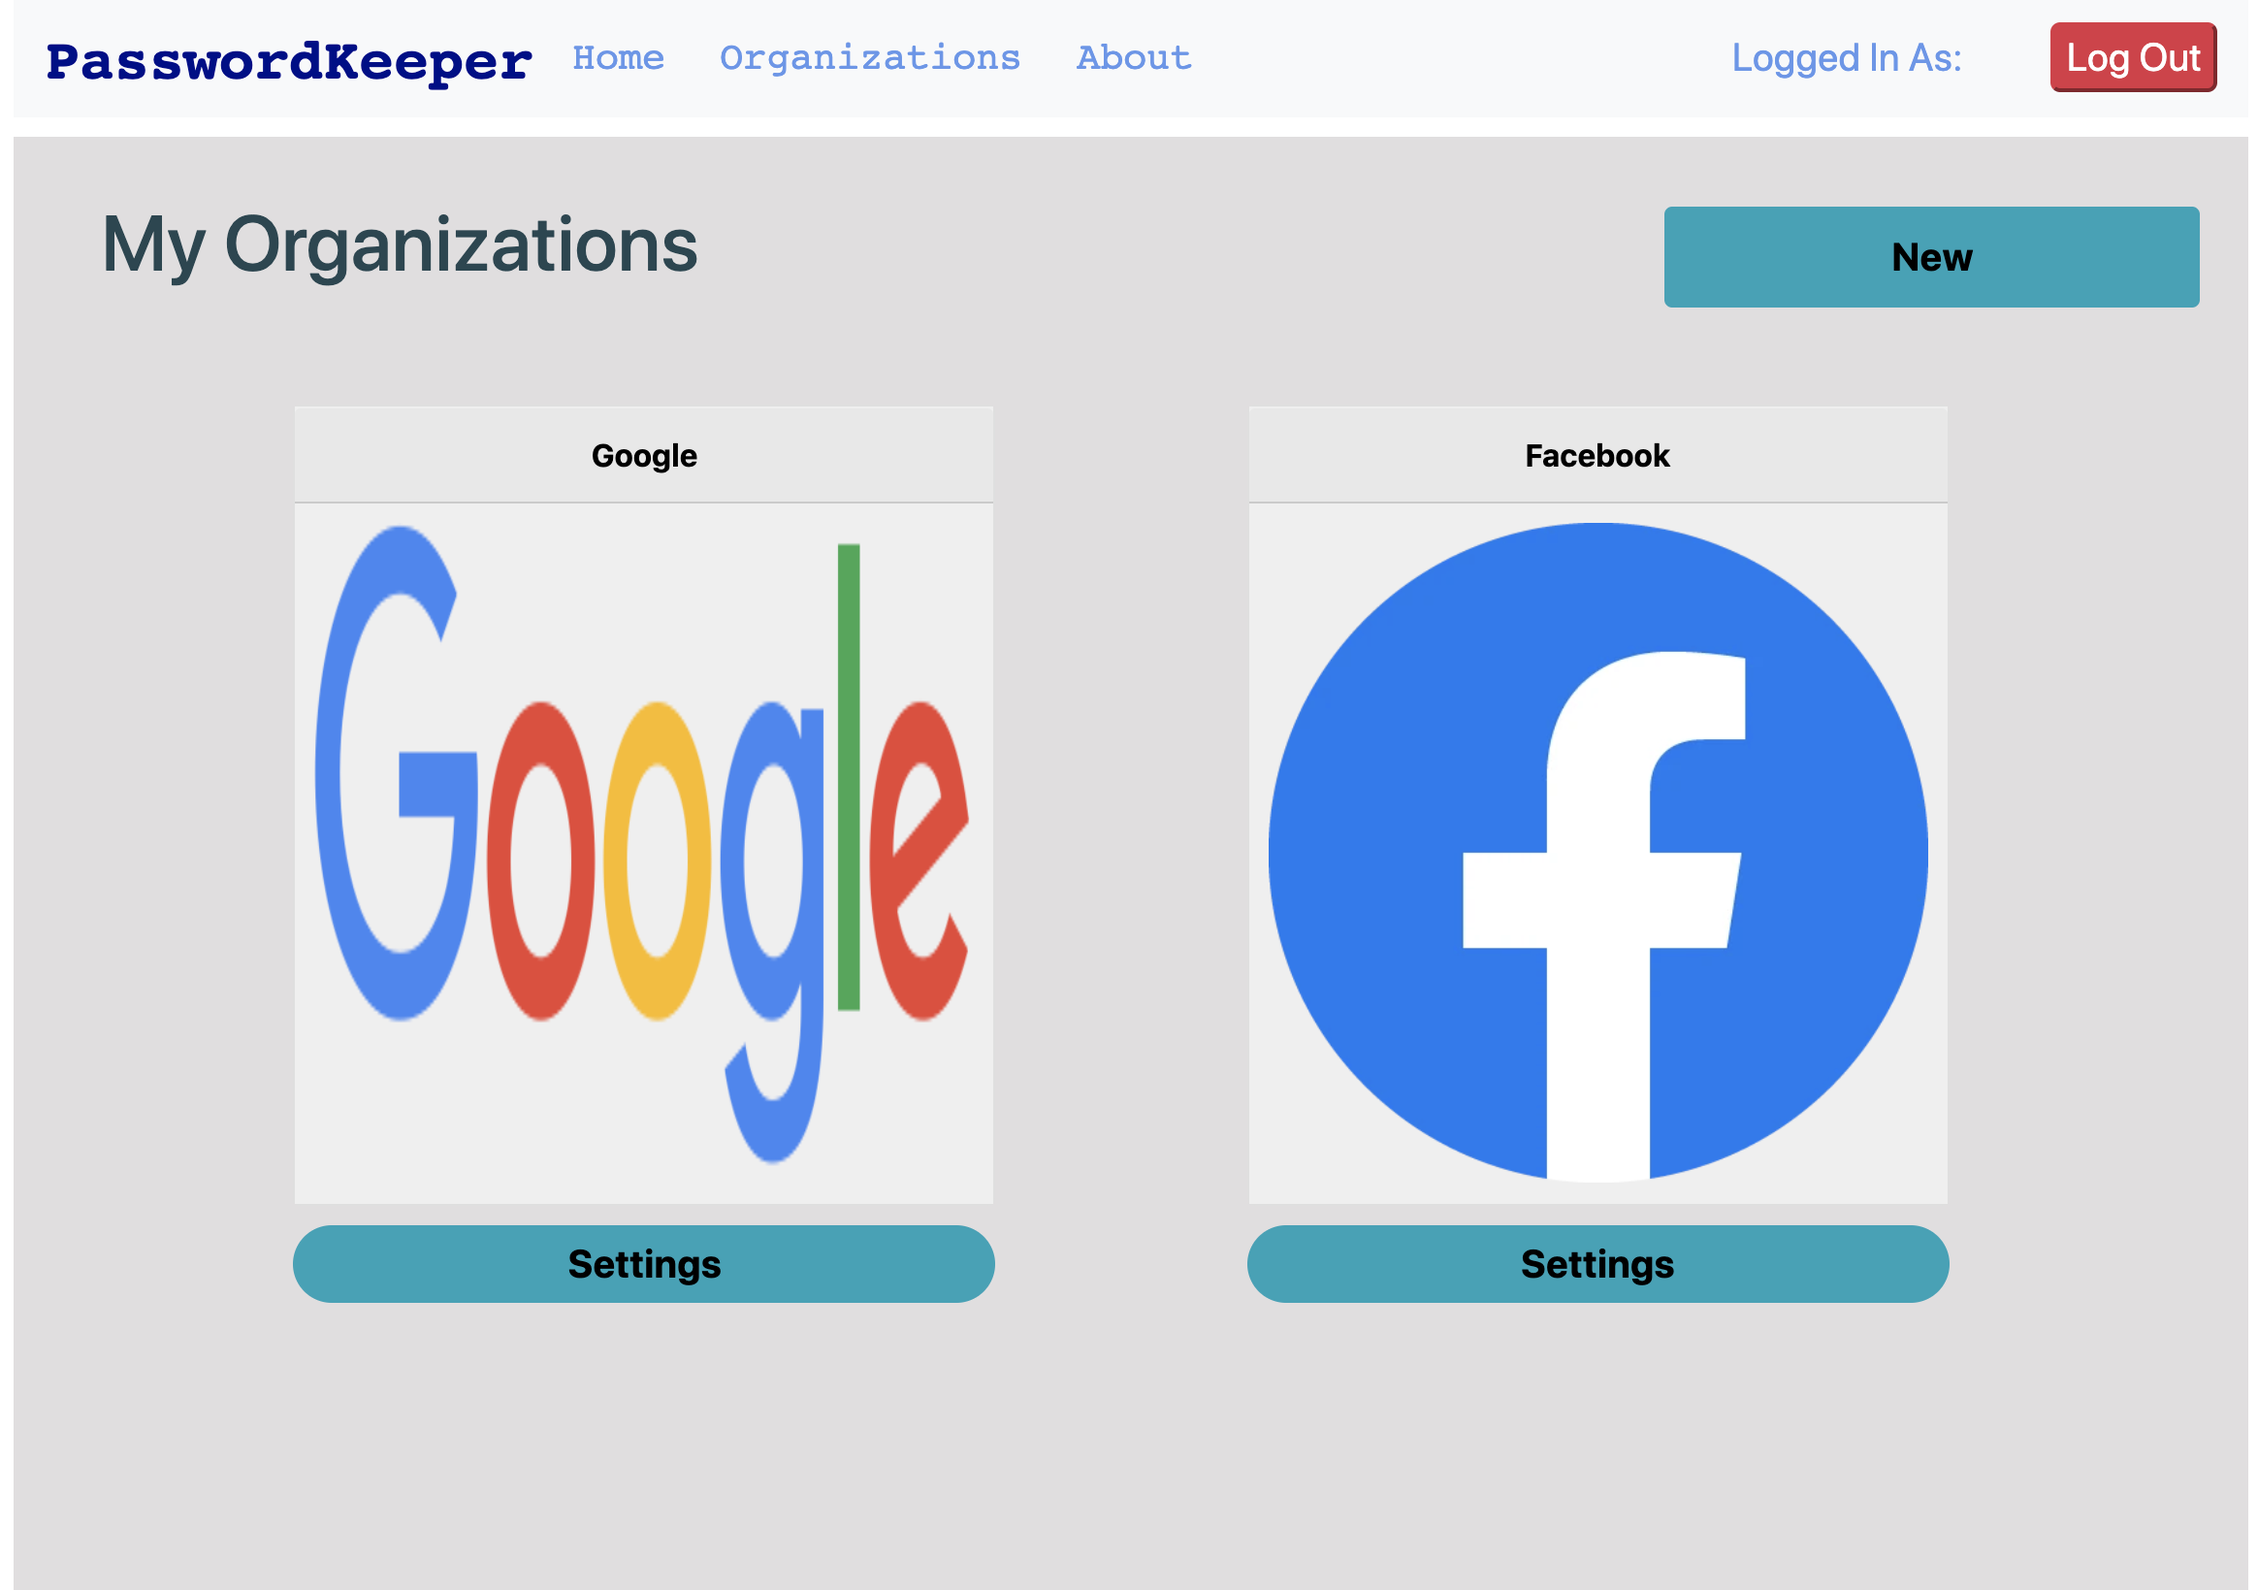
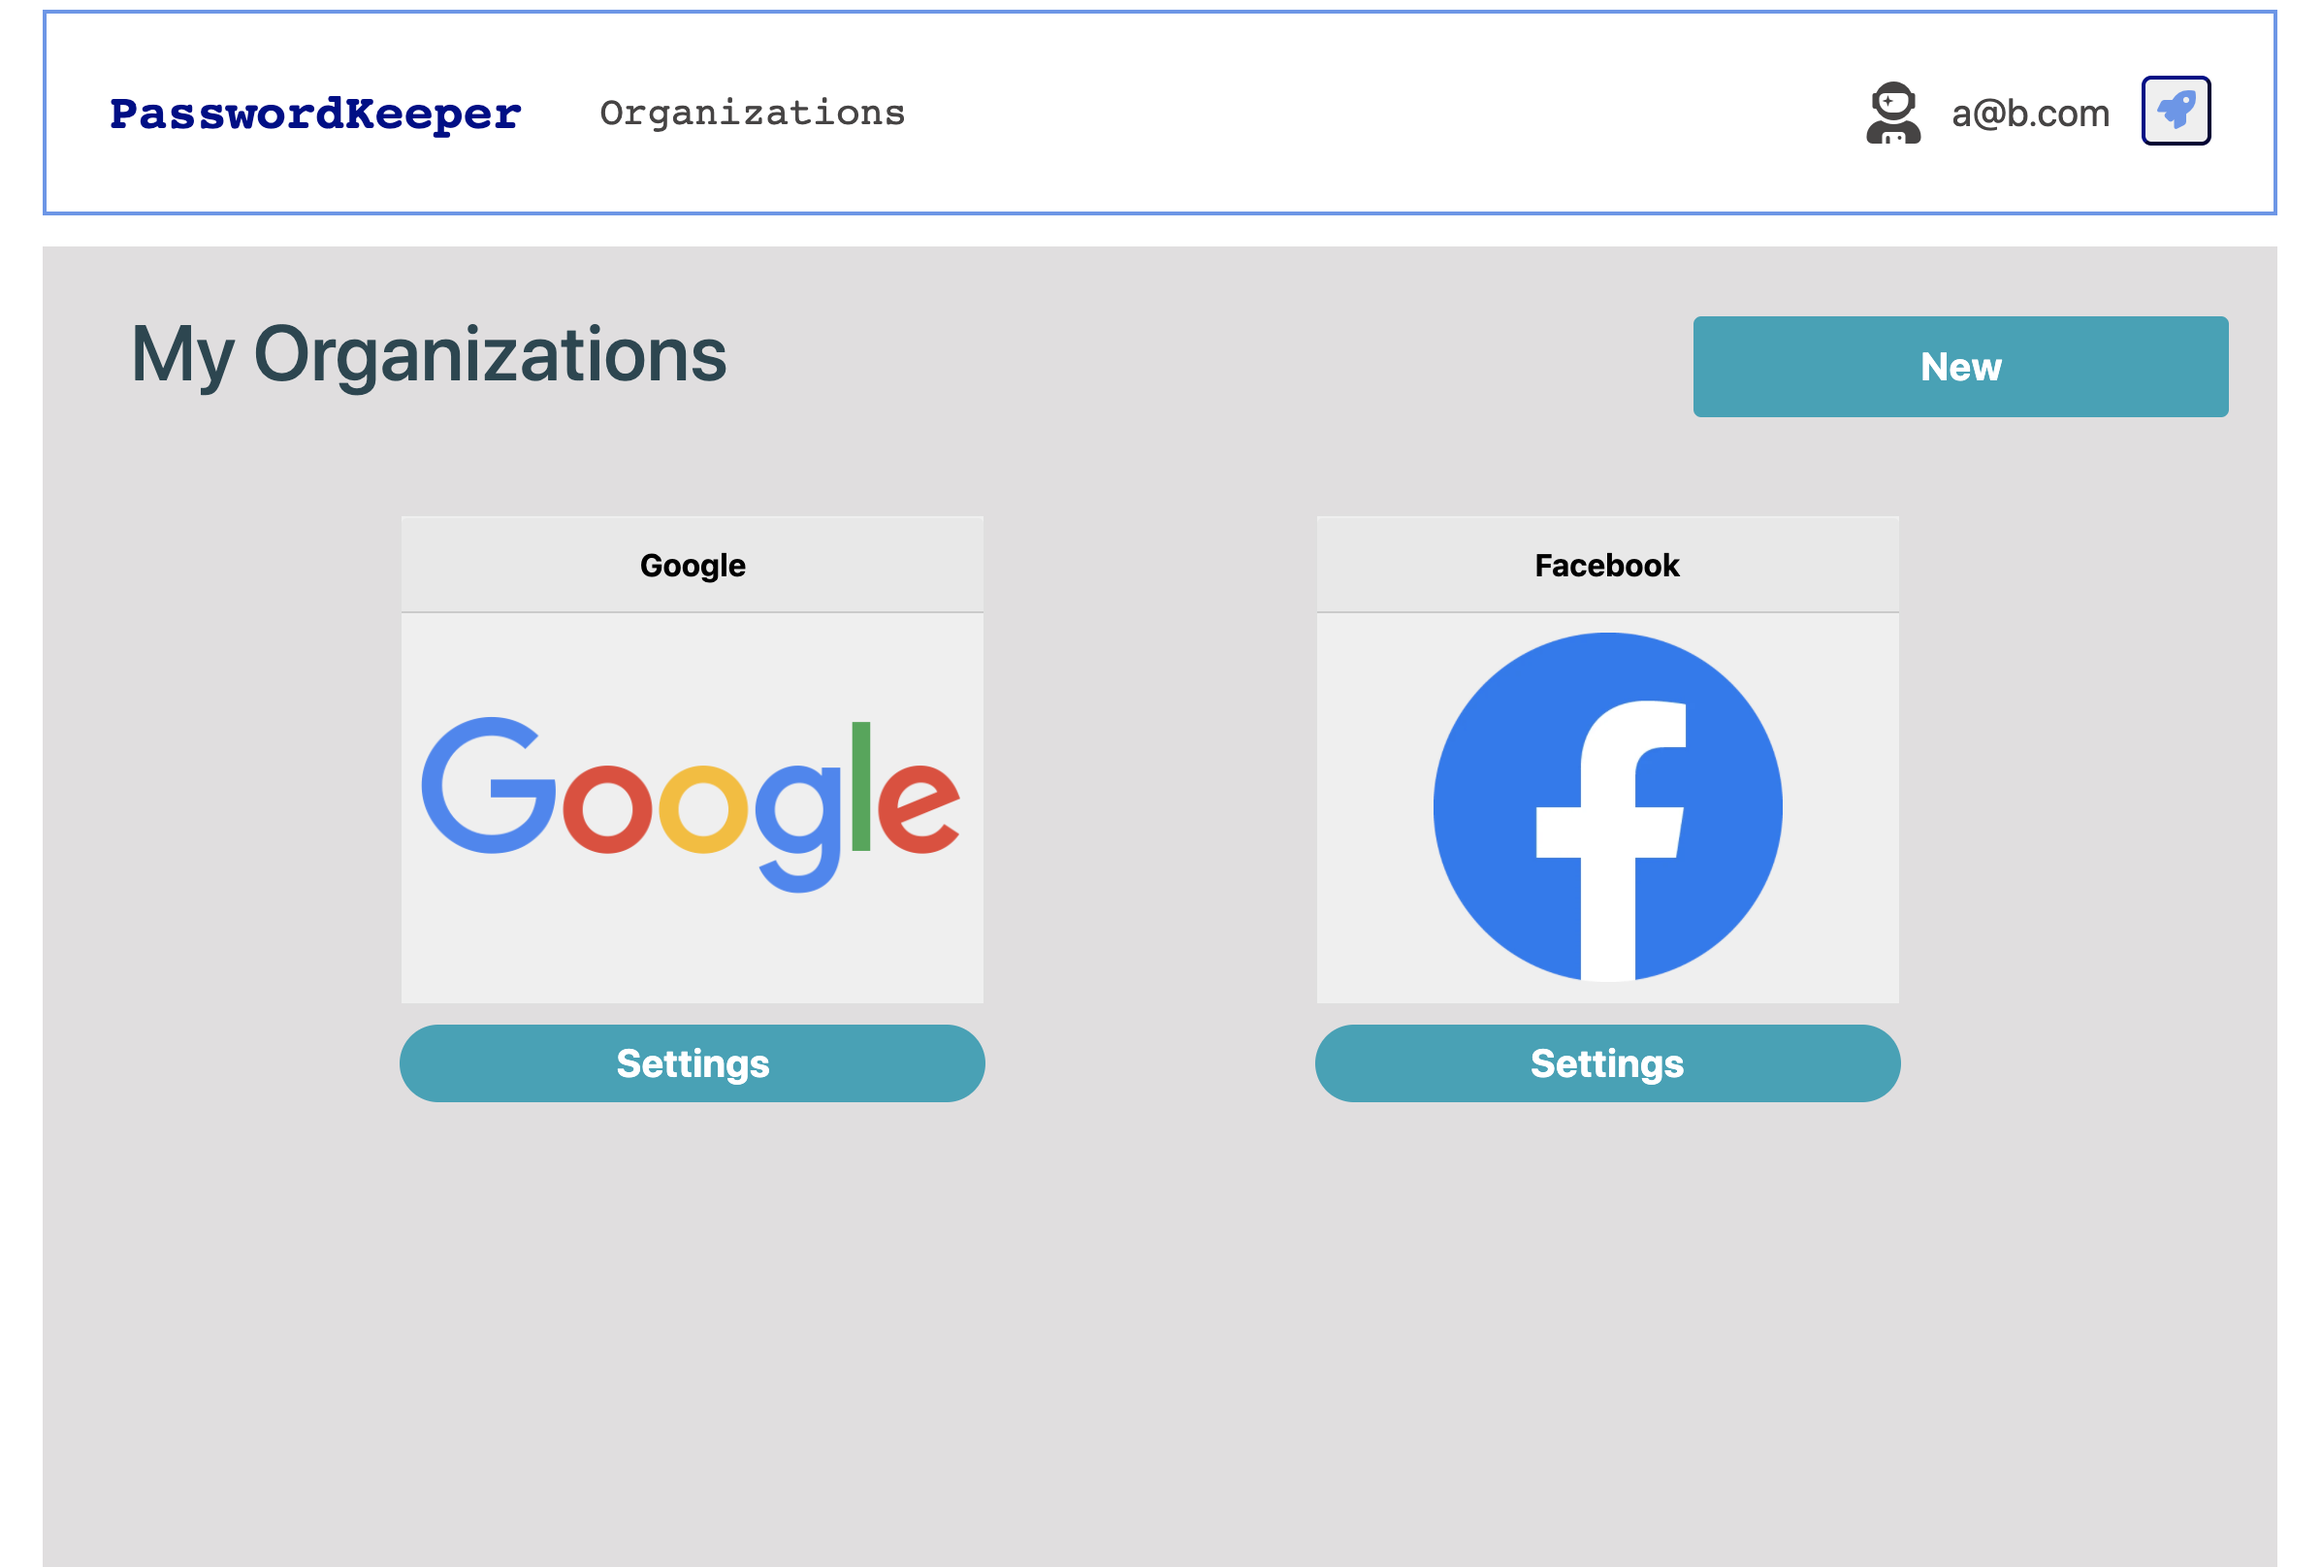
database is updated and slide show is added to landing page

diff --git a/public/styles/sass/error_404.css b/public/styles/sass/error_404.css
@@ -1,0 +1,129 @@
+@import url("https://fonts.googleapis.com/css2?family=Fontdiner+Swanky&family=Roboto:wght@500&display=swap");
+* {
+  -webkit-box-sizing: 0;
+          box-sizing: 0;
+  margin: 0;
+  padding: 0;
+  cursor: url("https://s3-us-west-2.amazonaws.com/s.cdpn.io/4424790/cursors-edge.png"), auto;
+}
+
+body {
+  background: -webkit-gradient(linear, left top, right top, color-stop(50%, white), color-stop(50%, #383838));
+  background: linear-gradient(to right, white 50%, #383838 50%);
+  font-family: "Roboto", sans-serif;
+  font-size: 18px;
+  font-weight: 500;
+  line-height: 1.5;
+  color: white;
+}
+
+body > div {
+  display: -webkit-box;
+  display: -ms-flexbox;
+  display: flex;
+  -webkit-box-align: center;
+      -ms-flex-align: center;
+          align-items: center;
+  height: 100vh;
+  max-width: 1000px;
+  width: calc(100% - 4rem);
+  margin: 0 auto;
+}
+
+body > div > * {
+  display: -webkit-box;
+  display: -ms-flexbox;
+  display: flex;
+  -webkit-box-orient: vertical;
+  -webkit-box-direction: normal;
+      -ms-flex-flow: column;
+          flex-flow: column;
+  -webkit-box-align: center;
+      -ms-flex-align: center;
+          align-items: center;
+  -webkit-box-pack: center;
+      -ms-flex-pack: center;
+          justify-content: center;
+  height: 100vh;
+  max-width: 500px;
+  width: 100%;
+  padding: 2.5rem;
+}
+
+aside {
+  background-image: url("https://s3-us-west-2.amazonaws.com/s.cdpn.io/4424790/right-edges.png");
+  background-position: top right;
+  background-repeat: no-repeat;
+  background-size: 25px 100%;
+}
+
+aside img {
+  display: block;
+  height: auto;
+  width: 100%;
+}
+
+main {
+  text-align: center;
+}
+
+main h1 {
+  font-family: "Fontdiner Swanky", cursive;
+  font-size: 4rem;
+  color: #c5dc50;
+  margin-bottom: 1rem;
+}
+
+main p {
+  margin-bottom: 2.5rem;
+}
+
+main p em {
+  font-style: italic;
+  color: #c5dc50;
+}
+
+main button {
+  font-family: "Fontdiner Swanky", cursive;
+  font-size: 1rem;
+  color: #383838;
+  border: none;
+  background-color: #f36a6f;
+  padding: 1rem 2.5rem;
+  -webkit-transform: skew(-5deg);
+          transform: skew(-5deg);
+  -webkit-transition: all 0.1s ease;
+  transition: all 0.1s ease;
+  cursor: url("https://s3-us-west-2.amazonaws.com/s.cdpn.io/4424790/cursors-eye.png"), auto;
+}
+
+main button:hover {
+  background-color: #c5dc50;
+  -webkit-transform: scale(1.15);
+          transform: scale(1.15);
+}
+
+@media (max-width: 700px) {
+  body {
+    background: #383838;
+    font-size: 16px;
+  }
+  div {
+    -webkit-box-orient: vertical;
+    -webkit-box-direction: normal;
+        -ms-flex-flow: column;
+            flex-flow: column;
+  }
+  div > * {
+    max-width: 700px;
+    height: 100%;
+  }
+  aside {
+    background-image: none;
+    background-color: white;
+  }
+  aside img {
+    max-width: 300px;
+  }
+}
+/*# sourceMappingURL=error_404.css.map */

diff --git a/public/styles/image-slide.css b/public/styles/image-slide.css
@@ -1,0 +1,94 @@
+* {box-sizing:border-box}
+
+/* Slideshow container */
+.slideshow-container {
+  max-width: 1000px;
+  position: relative;
+  margin: auto;
+}
+
+/* Hide the images by default */
+.mySlides {
+  display: none;
+}
+
+/* Next & previous buttons */
+.prev, .next {
+  cursor: pointer;
+  position: absolute;
+  top: 50%;
+  width: auto;
+  margin-top: -22px;
+  padding: 16px;
+  color: white;
+  font-weight: bold;
+  font-size: 18px;
+  transition: 0.6s ease;
+  border-radius: 0 3px 3px 0;
+  user-select: none;
+}
+
+/* Position the "next button" to the right */
+.next {
+  right: 0;
+  border-radius: 3px 0 0 3px;
+}
+
+/* On hover, add a black background color with a little bit see-through */
+.prev:hover, .next:hover {
+  background-color: rgba(0,0,0,0.8);
+}
+
+/* Caption text */
+.text {
+  color: #f2f2f2;
+  font-size: 15px;
+  padding: 8px 12px;
+  position: absolute;
+  bottom: 8px;
+  width: 100%;
+  text-align: center;
+}
+
+/* Number text (1/3 etc) */
+.numbertext {
+  color: #f2f2f2;
+  font-size: 12px;
+  padding: 8px 12px;
+  position: absolute;
+  top: 0;
+}
+
+/* The dots/bullets/indicators */
+.dot {
+  cursor: pointer;
+  height: 15px;
+  width: 15px;
+  margin: 0 2px;
+  background-color: #bbb;
+  border-radius: 50%;
+  display: inline-block;
+  transition: background-color 0.6s ease;
+}
+
+.active, .dot:hover {
+  background-color: #717171;
+}
+
+/* Fading animation */
+.fade {
+  -webkit-animation-name: fade;
+  -webkit-animation-duration: 1.5s;
+  animation-name: fade;
+  animation-duration: 1.5s;
+}
+
+@-webkit-keyframes fade {
+  from {opacity: .4}
+  to {opacity: 1}
+}
+
+@keyframes fade {
+  from {opacity: .4}
+  to {opacity: 1}
+}

diff --git a/public/scripts/organizations/organization_new.js b/public/scripts/organizations/organization_new.js
@@ -1,3 +1,4 @@
+const url = require('url');
 $(document).ready(function() {
   const errorOrg = () => {
     return `
@@ -26,9 +27,9 @@ $(document).ready(function() {
     $(".org-name").focus();
   });
 
-  $('.logo-url').on("change",function() {
+  /* $('.logo-url').on("change",function() {
     const fileInput = $(this);
-    if (fileInput.length && fileInput[0].files && fileInput[0].files.length) {
+    if (fileInput.length && fileInput[0].image && fileInput[0].image.length) {
       const url = window.URL || window.webkitURL;
       const image = new Image();
       image.onload = function() {
@@ -41,14 +42,14 @@ $(document).ready(function() {
       };
       image.src = url.createObjectURL(fileInput[0].files[0]);
     }
-  });
+  }); */
 
 
   $(".submit-new").on("submit", function(event) {
     event.preventDefault();
     const orgNameLength = $(".org-name").val().length;
     const urlContent = $(".logo-url").val();
-
+    console.log(url.parse(urlContent, true));
     if (orgNameLength < 1) {
       $(".error-min-input").show();
       $(".org-name").focus();

diff --git a/public/scripts/image-slide.js b/public/scripts/image-slide.js
@@ -1,0 +1,28 @@
+let slideIndex = 1;
+showSlides(slideIndex);
+
+// Next/previous controls
+function plusSlides(n) {
+  showSlides(slideIndex += n);
+}
+
+// Thumbnail image controls
+function currentSlide(n) {
+  showSlides(slideIndex = n);
+}
+
+function showSlides(n) {
+  let i;
+  let slides = document.getElementsByClassName("mySlides");
+  let dots = document.getElementsByClassName("dot");
+  if (n > slides.length) {slideIndex = 1}
+  if (n < 1) {slideIndex = slides.length}
+  for (i = 0; i < slides.length; i++) {
+      slides[i].style.display = "none";
+  }
+  for (i = 0; i < dots.length; i++) {
+      dots[i].className = dots[i].className.replace(" active", "");
+  }
+  slides[slideIndex-1].style.display = "block";
+  dots[slideIndex-1].className += " active";
+}

diff --git a/routes/sites.js b/routes/sites.js
@@ -19,12 +19,12 @@ module.exports = (db) => {
     console.log(orgId);
     const userId = req.session.user_id;
 
-    let query = `SELECT * FROM websites WHERE organization_id=$1`;
+    let query = `SELECT * FROM websites JOIN categories ON categories.id = category_id WHERE organization_id=$1 `;
     console.log(query);
     db.query(query, [orgId])
       .then(data => {
         const sites = data.rows;
-
+        console.log(sites);
         return findUserEmail(db, userId)
           .then(email => {
             const templateVars = {

diff --git a/public/styles/sass/navbar.css b/public/styles/sass/navbar.css
@@ -19,7 +19,6 @@ header .navbar {
   border-radius: 10px;
 }
 
-
 header .Register-Login {
   display: -webkit-box;
   display: -ms-flexbox;
@@ -32,7 +31,7 @@ header .Register-Login {
 header .nav-button {
   color: rgba(0, 0, 0, 0.5);
   border: none;
-  background-color: #f8f9fa !important;
+  background-color: black;
 }
 
 .container-fluid {

diff --git a/public/styles/organization.css b/public/styles/organization.css
@@ -117,9 +117,10 @@ main h1 {
 }
 
 .logo-image {
-  width: 25vw;
-  height: 25vw;
+  width: 300px;
+  height: 200px;
   padding: 10px;
+  object-fit: contain;
 }
 .setting-form {
   width: 100%;
